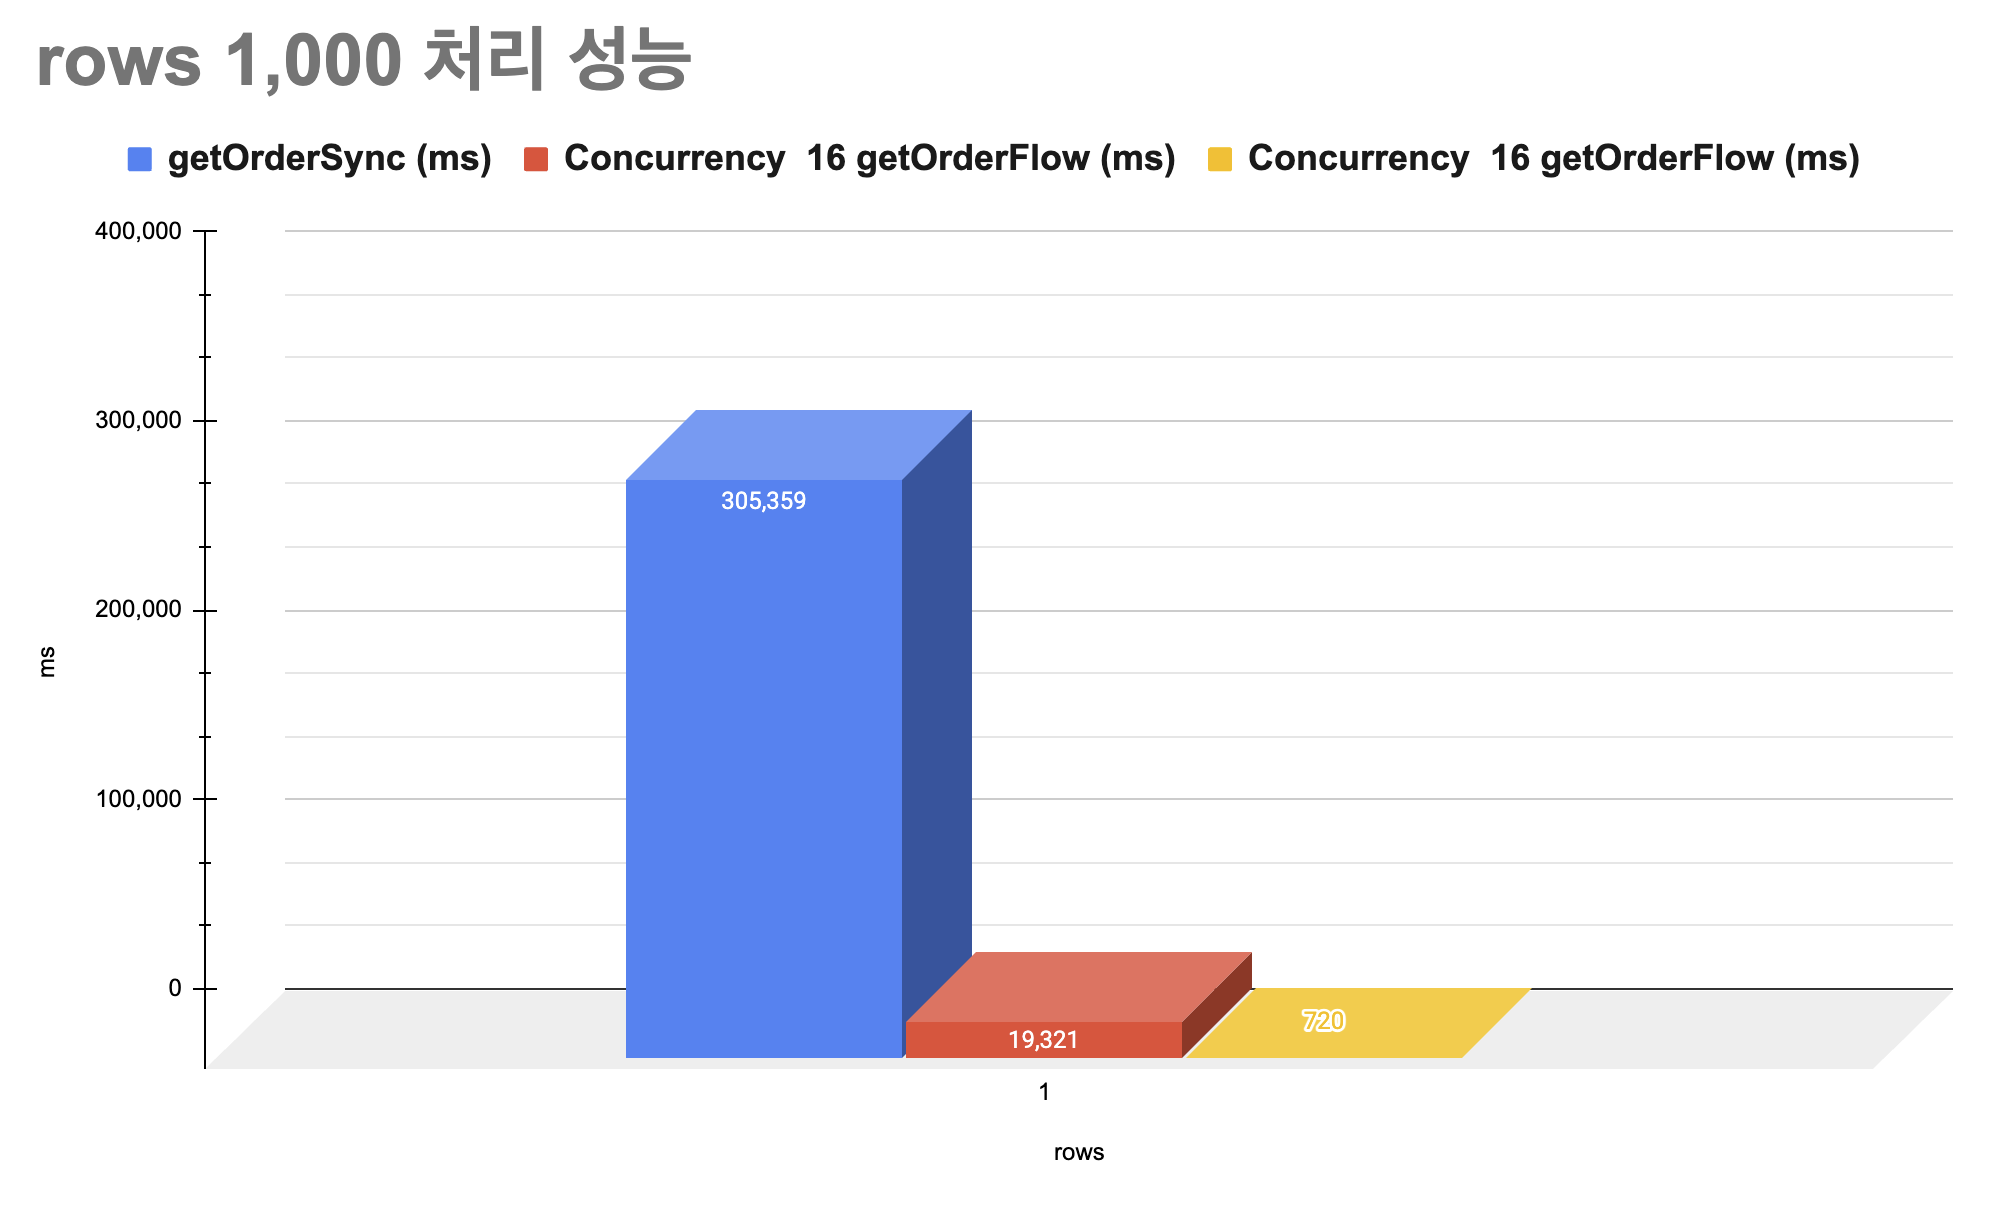
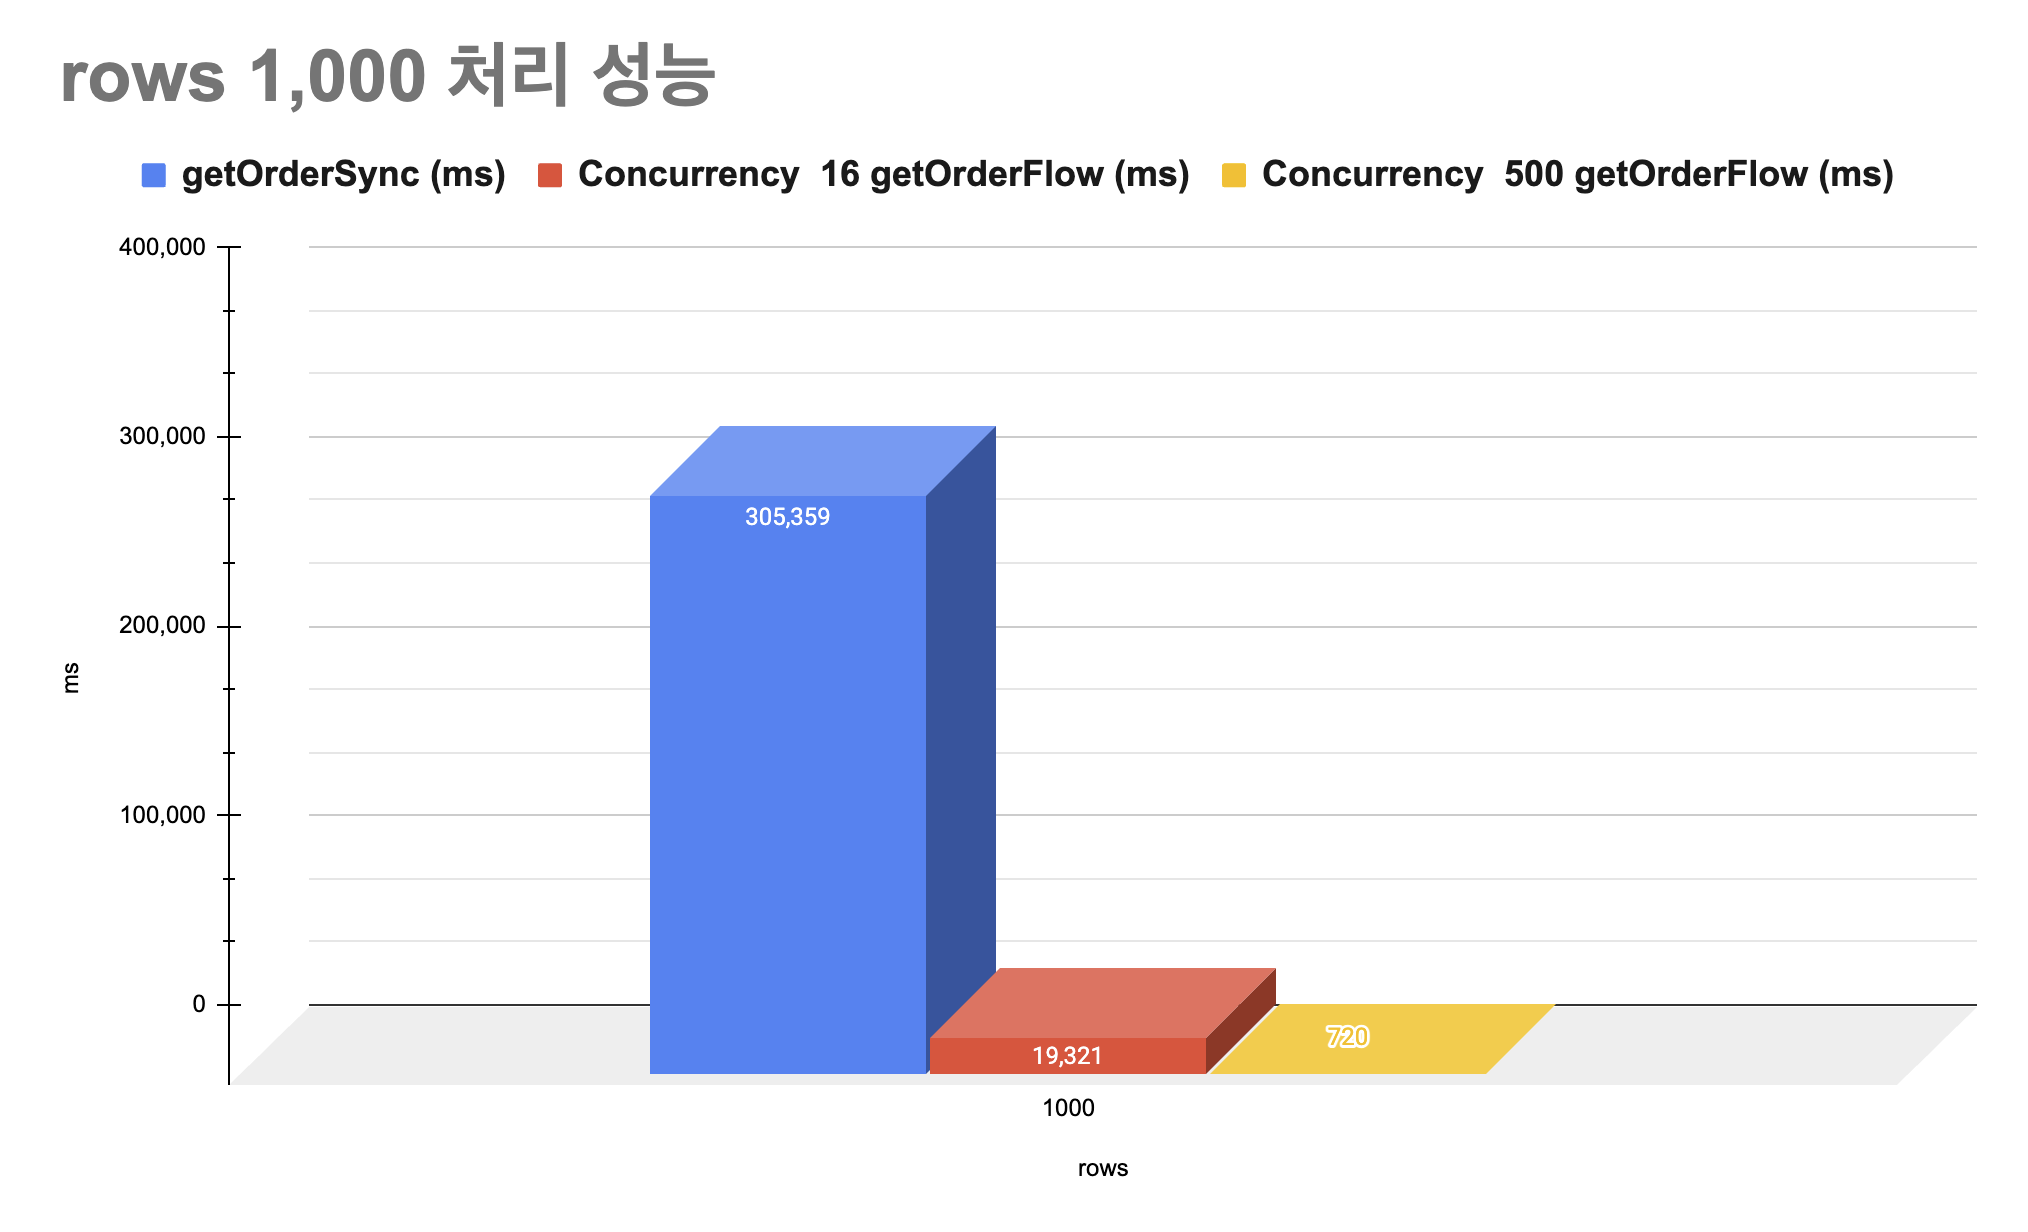
초안 작성

diff --git a/kotlin-coroutine/coroutine-flatMapMerge.md b/kotlin-coroutine/coroutine-flatMapMerge.md
@@ -233,14 +233,14 @@ flatMapMerge의 concurrency 파라미터는 동시에 실행되는 코루틴 수
 
 ![](https://raw.githubusercontent.com/cheese10yun/blog-sample/master/kotlin-coroutine/images/result_006.png)
 
+1,000개의 요청을 처리하는 데 있어, 동기식 방식은 305,359ms가 소요되었습니다. 그러나 Flow Concurrency 16을 사용하면 처리 시간이 19,321ms로 줄어들어 약 93.67%의 성능 향상을 보였습니다. Concurrency를 500으로 설정했을 때는 처리 시간이 720ms로 줄어들어 약 99.76%의 성능 향상이 있었습니다. 이는 코루틴이 적은 양의 스레드로도 많은 데이터를 효율적으로 처리할 수 있음을 보여줍니다. 동기식 방식에서는 각 요청이 순차적으로 처리되어 전체 처리 시간이 길어지지만, 코루틴을 사용하면 여러 요청을 동시에 처리할 수 있어 처리 속도가 크게 향상됩니다. 따라서, 시스템 자원을 효율적으로 사용하고, 특히 IO 바운드 작업에서 코루틴의 효율성이 두드러집니다. 적절한 Concurrency 설정을 통해 애플리케이션의 성능을 극대화할 수 있습니다.
+
 
 ### Concurrency Size 성능 최적화 시 고려 사항
 
 성능은 크게 향상됐지만 무턱대고 concurrency 값을 늘리는 것은 해결책이 아닙니다. concurrency 값을 너무 크게 설정하면 오히려 시스템 자원을 과도하게 사용하게 되어 성능 저하가 발생할 수 있습니다. 따라서 여러 코루틴을 사용하는 것은 자원을 더 많이 사용하게 되므로, 각자의 리소스와 환경에 맞는 concurrency 값을 적절하게 설정하는 것이 중요합니다. 시스템의 CPU, 메모리, 네트워크 대역폭 등을 고려하여 최적의 concurrency 값을 설정해야 합니다.
 
 또한 배치 애플리케이션처럼 특정 작업만 하고 애플리케이션이 종료되는 환경에서는 concurrency 값을 높여 처리량을 극대화하는 것이 좋습니다. 이런 경우에는 단기간에 최대한 많은 작업을 처리하는 것이 목표이므로, 가능한 한 높은 concurrency 값을 설정하여 성능을 최적화할 수 있습니다.
-
-## 결론
 
 
 
